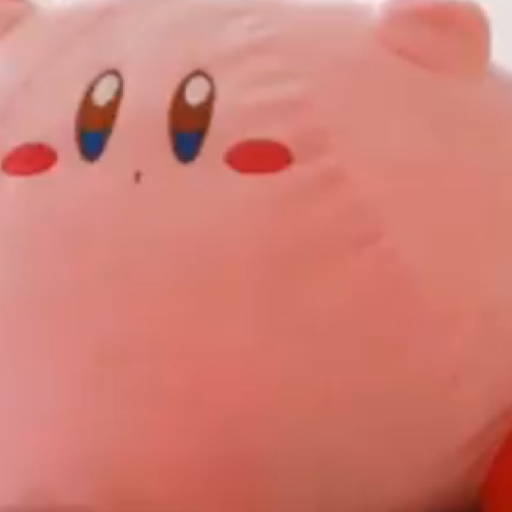
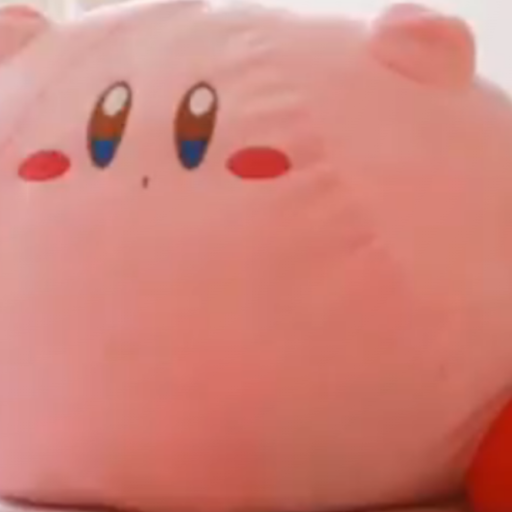
kirby2

diff --git a/app/src/main/java/com/example/lab07/KirbyFragment.java b/app/src/main/java/com/example/lab07/KirbyFragment.java
@@ -1,12 +1,23 @@
 package com.example.lab07;
 
 import android.os.Bundle;
+import android.view.LayoutInflater;
+import android.view.View;
+import android.view.ViewGroup;
+import android.widget.Button;
+import android.widget.ImageView;
 
+import androidx.annotation.NonNull;
+import androidx.annotation.Nullable;
 import androidx.fragment.app.Fragment;
+
+import com.google.android.material.tabs.TabLayout;
+import com.google.android.material.tabs.TabLayoutMediator;
 
 public class KirbyFragment extends androidx.fragment.app.Fragment {
     int[] images = new int[]{R.drawable.carby, R.drawable.curby,
             R.drawable.beeg_kirby, R.drawable.kirby_road,R.drawable.kirby_background,R.drawable.kirby_costume,R.drawable.kirby_real_face};
+    ImageView kirby;
     int iKirby;
     public static KirbyFragment newInstance(int iKirby) {
         KirbyFragment kirbyFrag = new KirbyFragment();
@@ -19,6 +30,17 @@ public class KirbyFragment extends androidx.fragment.app.Fragment {
     public void onCreate(Bundle savedInstanceState) {
         super.onCreate(savedInstanceState);
         iKirby = getArguments().getInt("iKirby",0);
+    }
+    public View onCreateView(@NonNull LayoutInflater inflater, @Nullable ViewGroup container, @Nullable Bundle savedInstanceState) {
+        return inflater.inflate(R.layout.kirby_fragment,container,false);
+    }
+
+    @Override
+    public void onViewCreated(@NonNull View view, @Nullable Bundle savedInstanceState) {
+        super.onViewCreated(view, savedInstanceState);
+        kirby = view.findViewById(R.id.background);
+        kirby.setScaleType(ImageView.ScaleType.FIT_XY);
+        kirby.setImageResource(images[iKirby]);
 
     }
 }
